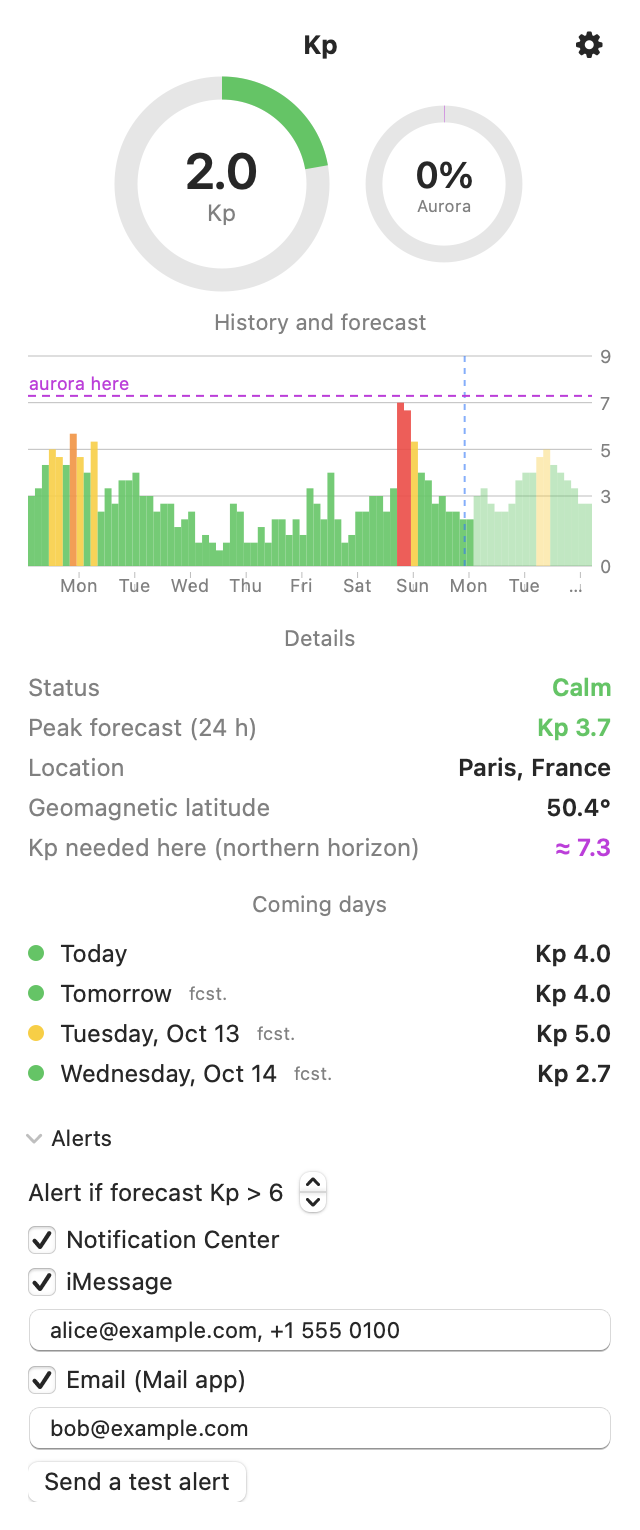
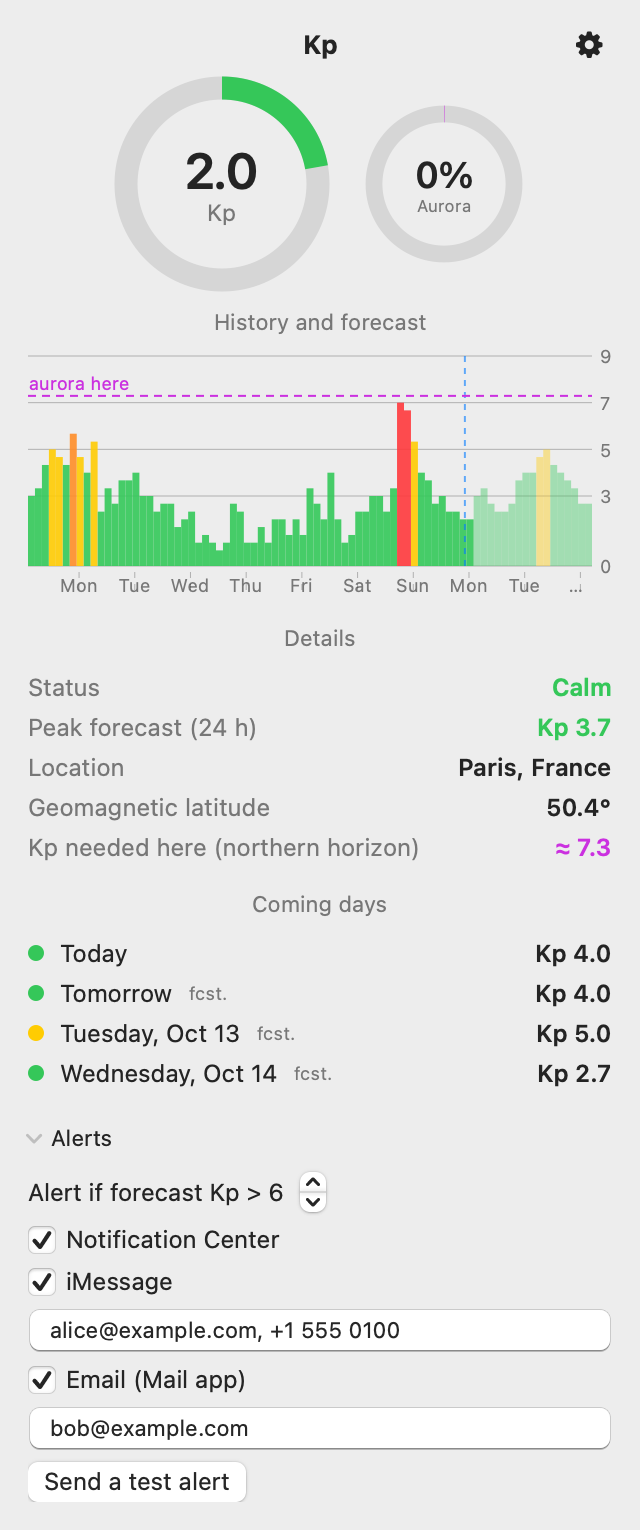
Screenshots: render with opaque background so they read on GitHub dark theme

diff --git a/Sources/KPDetector/main.swift b/Sources/KPDetector/main.swift
@@ -82,8 +82,24 @@ final class AppDelegate: NSObject, NSApplicationDelegate, CLLocationManagerDeleg
                 host.layoutSubtreeIfNeeded()
                 if let rep = host.bitmapImageRepForCachingDisplay(in: host.bounds) {
                     host.cacheDisplay(in: host.bounds, to: rep)
-                    try? rep.representation(using: .png, properties: [:])?
-                        .write(to: URL(fileURLWithPath: "\(dir)/\(name)-\(lang).png"))
+                    // Fond opaque : lisible aussi sur le thème sombre de GitHub.
+                    let w = rep.pixelsWide, h = rep.pixelsHigh
+                    if let out = NSBitmapImageRep(bitmapDataPlanes: nil, pixelsWide: w, pixelsHigh: h, bitsPerSample: 8,
+                                                  samplesPerPixel: 4, hasAlpha: true, isPlanar: false,
+                                                  colorSpaceName: .deviceRGB, bytesPerRow: 0, bitsPerPixel: 0),
+                       let ctx = NSGraphicsContext(bitmapImageRep: out) {
+                        NSGraphicsContext.saveGraphicsState()
+                        NSGraphicsContext.current = ctx
+                        NSColor(srgbRed: 0.93, green: 0.93, blue: 0.93, alpha: 1).setFill()
+                        NSRect(x: 0, y: 0, width: w, height: h).fill()
+                        let img = NSImage(size: NSSize(width: w, height: h))
+                        img.addRepresentation(rep)
+                        img.draw(in: NSRect(x: 0, y: 0, width: w, height: h), from: .zero, operation: .sourceOver, fraction: 1)
+                        NSGraphicsContext.restoreGraphicsState()
+                        out.size = rep.size
+                        try? out.representation(using: .png, properties: [:])?
+                            .write(to: URL(fileURLWithPath: "\(dir)/\(name)-\(lang).png"))
+                    }
                 }
                 win.orderOut(nil)
             }
